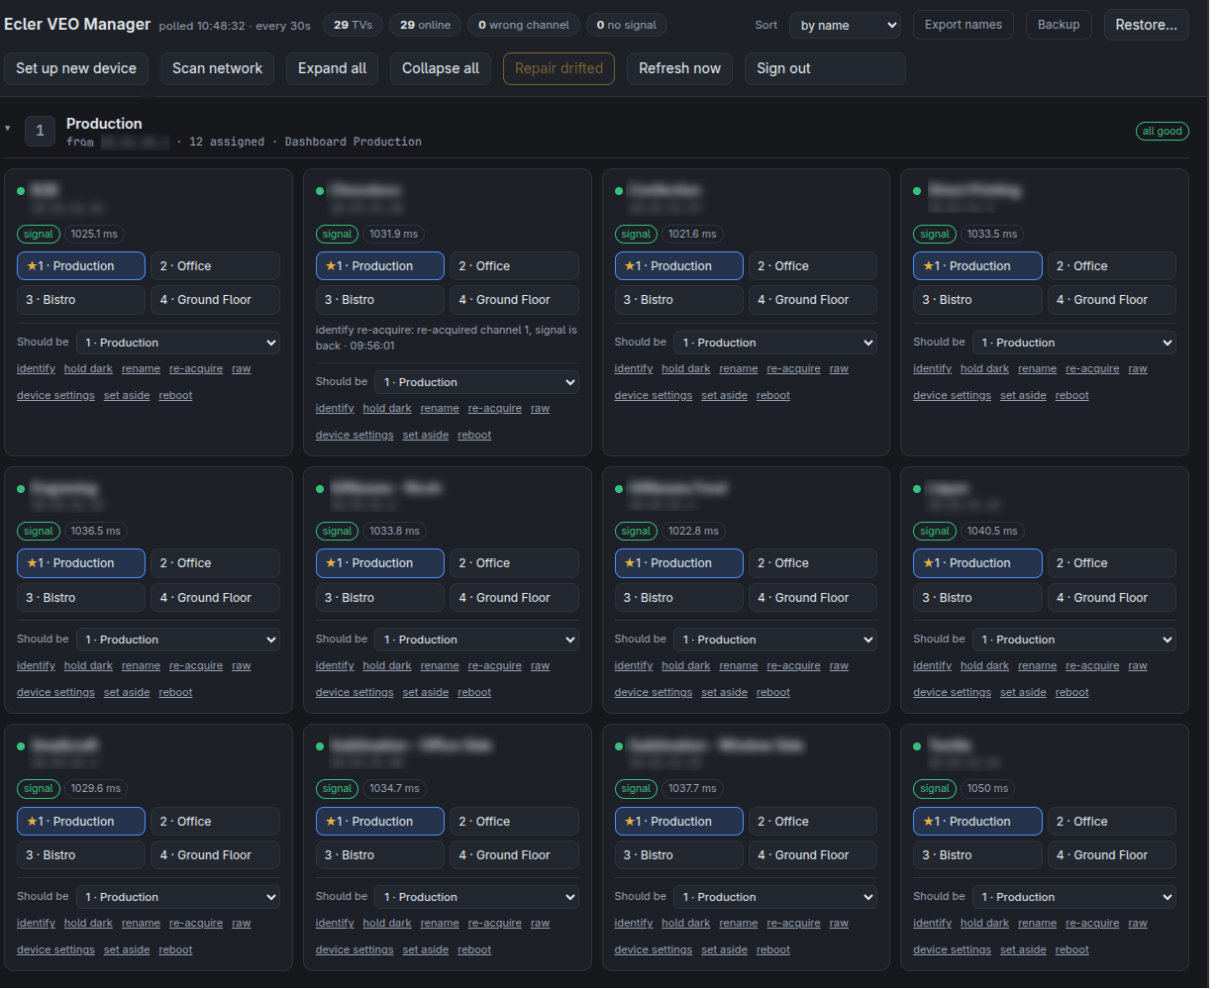
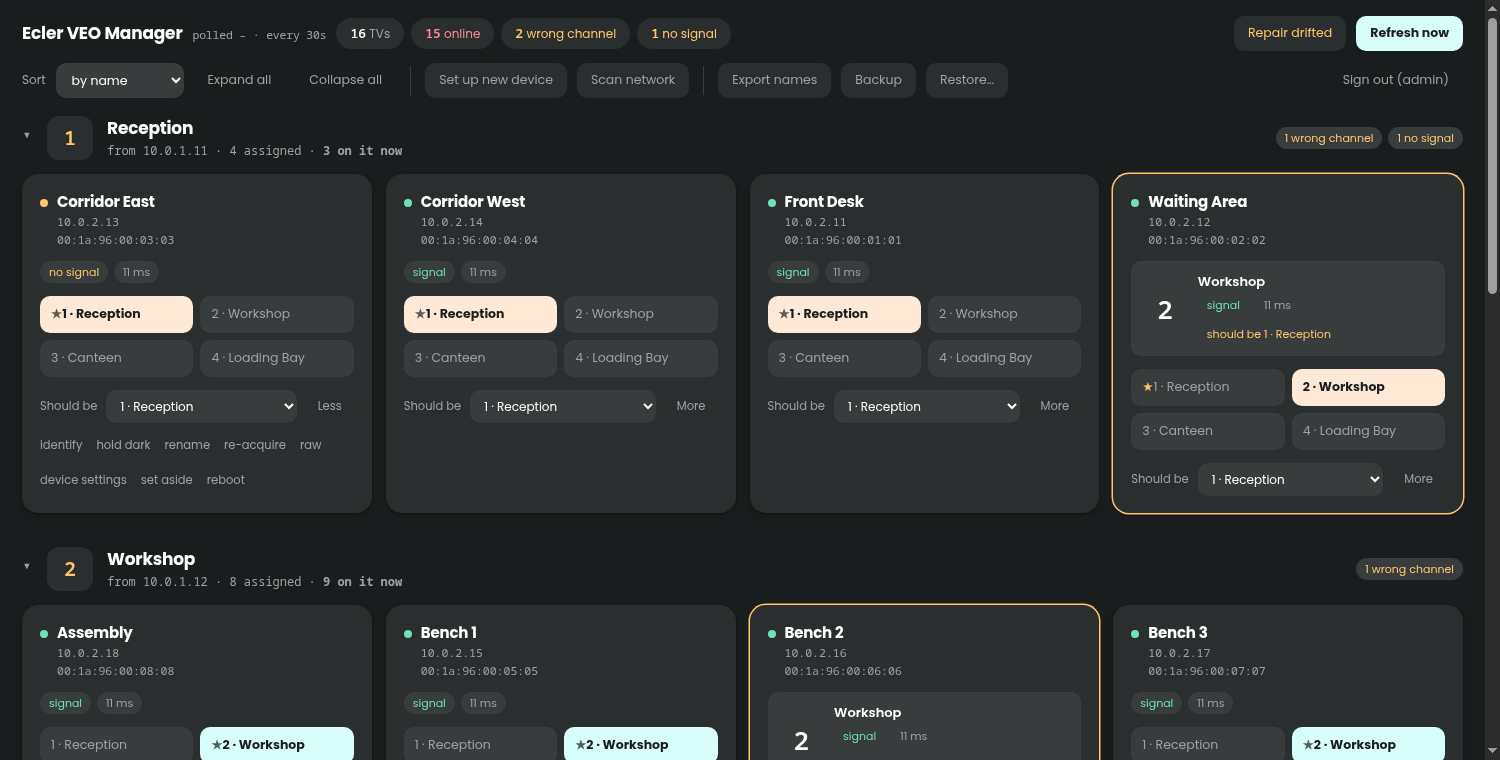
README: two products, and screenshots that match what the code does
The repository has held a manager and a streamer since this morning, but the
README still described one tool, and both screenshots predated today's
redesign -- they showed the old palette, the old dense card, and a real
building's channel names.

Rewritten around the two products, with their separate deployments explained,
and three fresh screenshots generated from the real pages driven by invented
data: generic room names, a documentation address range, and an invented
dashboard standing in for the live preview. Nothing in them needs blurring,
which is better than blurring it.

Tests section now covers both suites and says what each is actually for --
the manager's pin protocol quirks against emulated devices, the streamer's
pin encoder settings and the systemd directives that broke it quietly.

diff --git a/README.md b/README.md
@@ -1,7 +1,11 @@
-# Ecler VEO Manager
+# Ecler Manager & Streamer
 
-A web dashboard for **Ecler VEO-XTI1C / VEO-XRI1C** H.264 video-over-IP
-extenders: see what every screen is showing, and switch channels remotely.
+Two tools for **Ecler VEO-XTI1C / VEO-XRI1C** H.264 video-over-IP extenders:
+
+- **The manager** — see what every screen is showing, and switch channels
+  from a browser instead of a ladder.
+- **The streamer** — render a web dashboard headlessly and send it to a
+  channel, so no PC needs to be plugged into a transmitter at all.
 
 These extenders ship with no management tool. A receiver that loses its stream —
 which happens after a power event — is fixed by climbing to the unit and
@@ -9,40 +13,51 @@ pressing its channel button. They are, however, on the network and speak a
 control protocol, so none of that is necessary.
 
 Pure Python 3.11+ standard library. No `pip install`, no build step, no
-dependencies.
+dependencies. The streamer additionally needs `ffmpeg`, `Xvfb` and `chromium`,
+which do the rendering and encoding.
 
 <a href="images/mainscreen.png">
-  <img src="images/mainscreen.png" alt="The manager's main view: one collapsed row per transmitter, each with a dot per TV, and an event log below" width="820">
+  <img src="images/mainscreen.png" alt="The manager's main view: one row per channel, healthy ones collapsed to a dot per TV, one expanded showing a receiver on the wrong channel" width="820">
 </a>
 
-**The main view.** One row per transmitter, collapsed. Each row carries a dot
-per TV — green, amber, red — so a healthy channel stays a single line you can
-still read at a glance. Anything with a problem opens itself: here channel 3 is
-flagged `no TVs assigned`, because a transmitter is streaming to nobody. Below
-that, receivers deliberately set aside sit in **Spares / In storage**, not
-polled and not counted as faults. The event log at the bottom is what answers
-"how often does this actually happen?" — every drift, signal loss, switch and
-re-acquire, timestamped.
+**The manager's main view.** One row per channel. A healthy channel collapses to
+a single line with a dot per TV, so it stays readable at a glance; anything with
+a problem opens itself. Here one receiver has drifted onto the wrong channel and
+is ringed, with what it is *actually* showing spelled out against what it should
+be. Channel 3 is flagged `no TVs assigned` — a transmitter streaming to nobody.
+Receivers deliberately set aside sit in **Spares / In storage**, not polled and
+not counted as faults.
 
 <a href="images/detailedview.png">
-  <img src="images/detailedview.png" alt="A transmitter's group expanded, showing one card per TV with channel buttons and per-device actions" width="820">
+  <img src="images/detailedview.png" alt="A channel expanded, one card per TV, with one card's action list open" width="820">
 </a>
 
-**A group expanded.** One card per TV: its name, address and MAC, a `signal`
-chip from the device's own video-lock state, and how long it took to answer.
-The channel buttons switch it, ★ marks where it should be, and the current
-channel is highlighted. `Should be` sets the expected channel and is what turns
-drift detection on. Underneath: `identify` blinks the screen, `hold dark` parks
-it until you release it, `re-acquire` forces it to re-join its stream, `raw`
-shows the exact bytes the device last replied with, and `device settings` opens
-address and name changes. One card shows a completed action —
-*"identify re-acquire: re-acquired channel 1, signal is back"* — because every
-action is read back from the device rather than assumed.
+**A card, and what it can do.** Name, address and MAC, a `signal` chip from the
+device's own video-lock state, and how long it took to answer. The channel
+buttons switch it — the one it is on now is filled, ★ marks where it should be —
+and `Should be` sets the expected channel, which is what turns drift detection
+on. Behind `More`: `identify` blinks the screen, `hold dark` parks it until you
+release it, `re-acquire` forces it to re-join its stream, `raw` shows the exact
+bytes the device last replied with, and `device settings` opens address and name
+changes. Every action is read back from the device rather than assumed.
 
-*(Click either image for the full-size version. Receiver names and addresses are
-blurred.)*
+<a href="images/streamer.png">
+  <img src="images/streamer.png" alt="The streamer: one card per dashboard, each showing a live screenshot of what that channel is displaying" width="820">
+</a>
+
+**The streamer.** One card per dashboard: paste a URL, enable it, and a headless
+browser renders it while ffmpeg encodes and multicasts it to that channel. The
+thumbnail is a live grab of what the channel is *actually* showing, which is the
+one thing a status line cannot tell you. `fps` and `speed` come from the
+encoder itself, and a red `dropped` chip appears only when frames are genuinely
+being lost.
+
+*(Click any image for the full size. All names and addresses in them are
+invented.)*
 
 ## What it does
+
+### The manager
 
 - **Shows every receiver's channel and signal state**, grouped by the
   transmitter it is meant to be watching. Distinguishes *wrong channel* from
@@ -60,6 +75,21 @@ blurred.)*
   factory-default unit: name, channel, address, reboot, and adopt once it
   answers at its new address.
 - **Backup and restore** the whole configuration, and an optional login.
+
+### The streamer
+
+- **Renders any URL** on a virtual display and streams it to a channel as
+  H.264 over multicast — replacing a PC wired to a transmitter.
+- **A live thumbnail per channel**, taken through the same pipeline the stream
+  uses, so you can see what is on a screen without walking to it.
+- **Health from the encoder itself** — frames per second, pace, and dropped
+  frames — because with several channels running the question stops being
+  *is it up* and becomes *which one is falling behind*.
+- **systemd owns the streams**; the web UI only starts, stops and restarts
+  them. It can crash or be upgraded without interrupting a frame, and a
+  stream comes back by itself after a reboot.
+
+See [streamer/README.md](streamer/README.md) to run it.
 
 ## Quick start
 
@@ -169,32 +199,56 @@ The full account is in [docs/protocol.md](docs/protocol.md). The essentials:
 
 ## Layout
 
+Two products in one repository, deployed independently: the manager installs
+from the root, the streamer from `streamer/`. A pull on either machine brings
+both down and only one gets installed.
+
 ```
-run.py                      entry point
-config.example.json         copy to config.json
-devices.example.txt         copy to devices.txt: your "<ip> <name>" inventory
-eclermanager/veo.py         the control protocol and its quirks
-eclermanager/config.py      config load / validate / save
-eclermanager/discovery.py   network sweep, and "is this really a VEO?"
-eclermanager/poller.py      polling, drift detection, self-healing, actions
-eclermanager/server.py      JSON API, static files, login gate
-eclermanager/auth.py        password hashing and signed session cookies
-eclermanager/static/        the dashboard and login page
-deploy/                     systemd units, install and update scripts
-tools/                      see docs/usage.md and docs/troubleshooting.md
-tests/smoke_dashboard.js    runs the dashboard's JS against a stubbed DOM
-tests/test_veo.py           188 tests, no hardware needed
+run.py                        manager entry point
+eclermanager/veo.py           the control protocol and its quirks
+eclermanager/config.py        config load / validate / save
+eclermanager/discovery.py     network sweep, and "is this really a VEO?"
+eclermanager/poller.py        polling, drift detection, self-healing, actions
+eclermanager/server.py        JSON API, static files, login gate
+eclermanager/auth.py          password hashing and signed session cookies
+eclermanager/static/          the dashboard and login page
+deploy/                       systemd units, install and update scripts
+tools/                        see docs/usage.md and docs/troubleshooting.md
+tests/
+
+streamer/run.py               streamer web service
+streamer/stream.py            what systemd runs, one instance per channel
+streamer/eclerstreamer/       config, systemd control, API, UI
+streamer/tools/teststream.py  builds and runs the ffmpeg pipeline
+streamer/tools/pagesource.sh  puts a page on a virtual display
+streamer/deploy/              units, sudo rule, installer
+streamer/tests/
 ```
 
 ## Tests
 
 ```bash
-python3 -m unittest discover -s tests
+python3 -m unittest discover -s tests            # manager
+node tests/smoke_dashboard.js                    # its dashboard's JS
+
+python3 -m unittest discover -s streamer/tests   # streamer
+node streamer/tests/smoke_ui.js                  # its page's JS
 ```
 
-They cover the protocol quirks above against emulated devices that reproduce
-them — including a unit that rejects CRLF, one that is slow to answer, and one
-whose replies would shift by a command under timing-based framing.
+No hardware needed. The manager's cover the protocol quirks above against
+emulated devices that reproduce them — including a unit that rejects CRLF, one
+that is slow to answer, and one whose replies would shift by a command under
+timing-based framing.
+
+The streamer's pin the settings that were expensive to find — constant-rate
+output, the quality floor, no B-frames, the pacing rules — and the systemd
+directives that broke it quietly: a sandbox that made its config read-only, one
+that stopped it reaching systemd at all, and a restart policy that looped on a
+misconfiguration for ever.
+
+Both JavaScript smoke tests run the real page against a stubbed DOM and fire
+every button, because `node --check` proves only that a file parses, not that a
+handler exists.
 
 ## Licence
 
